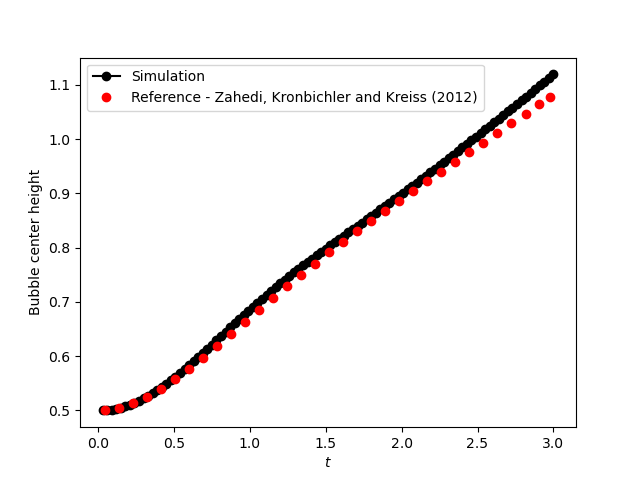
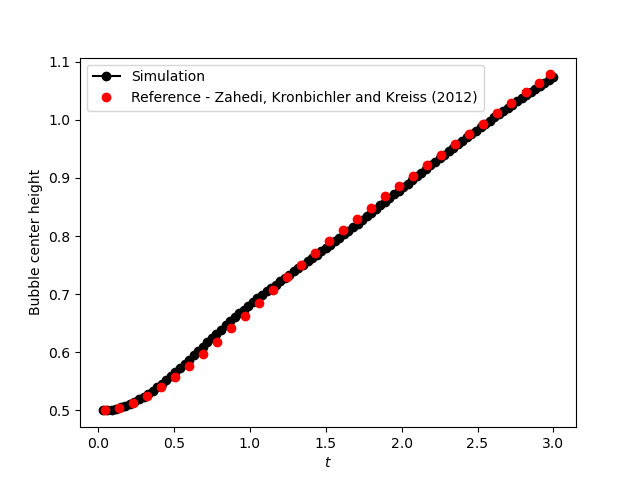
Add density ratio term to the surface tension force calculations

diff --git a/source/solvers/navier_stokes_vof_assemblers.cc b/source/solvers/navier_stokes_vof_assemblers.cc
@@ -544,7 +544,16 @@ GLSNavierStokesVOFAssemblerSTF<dim>::assemble_rhs(
   StabilizedMethodsTensorCopyData<dim> &copy_data)
 {
   // Surface tension coefficient
-  const double surface_tension_coef = STF_properties.surface_tension_coef;
+  const double surface_tension_coef = STF_parameters.surface_tension_coef;
+
+  // Densities of phases
+  Assert(
+    scratch_data.properties_manager.density_is_constant(),
+    RequiresConstantDensity(
+      "GLSVansAssemblerDiFelice<dim>::calculate_particle_fluid_interactions"));
+
+  const double phase_0_density = scratch_data.density_0[0];
+  const double phase_1_density = scratch_data.density_1[0];
 
   // Loop and quadrature informations
   const auto &       JxW        = scratch_data.JxW;
@@ -558,14 +567,19 @@ GLSNavierStokesVOFAssemblerSTF<dim>::assemble_rhs(
   // Loop over the quadrature points
   for (unsigned int q = 0; q < n_q_points; ++q)
     {
+      // Gather density
+      double density_eq = scratch_data.density[q];
+
       // Gather pfg and curvature values
       const double &        curvature_value = scratch_data.curvature_values[q];
       const Tensor<1, dim> &filtered_phase_fraction_gradient_value =
         scratch_data.filtered_phase_fraction_gradient_values[q];
-      const double         JxW_value = JxW[q];
-      const Tensor<1, dim> tmp_STF   = -2.0 * surface_tension_coef *
-                                     curvature_value *
-                                     filtered_phase_fraction_gradient_value;
+      const double JxW_value = JxW[q];
+
+      const Tensor<1, dim> tmp_STF =
+        -2.0 * surface_tension_coef * curvature_value *
+        filtered_phase_fraction_gradient_value *
+        (density_eq / (phase_0_density + phase_1_density));
 
       strong_residual[q] += tmp_STF;
 

diff --git a/include/solvers/navier_stokes_vof_assemblers.h b/include/solvers/navier_stokes_vof_assemblers.h
@@ -128,10 +128,10 @@ class GLSNavierStokesVOFAssemblerSTF : public NavierStokesAssemblerBase<dim>
 {
 public:
   GLSNavierStokesVOFAssemblerSTF(
-    std::shared_ptr<SimulationControl>  p_simulation_control,
-    Parameters::VOF_SurfaceTensionForce p_STF_properties)
+    std::shared_ptr<SimulationControl> p_simulation_control,
+    const SimulationParameters<dim> &  nsparam)
     : simulation_control(p_simulation_control)
-    , STF_properties(p_STF_properties)
+    , STF_parameters(nsparam.multiphysics.vof_parameters.surface_tension_force)
   {}
 
   /**
@@ -155,7 +155,7 @@ public:
   std::shared_ptr<SimulationControl> simulation_control;
 
   // Surface tension force (STF)
-  const Parameters::VOF_SurfaceTensionForce STF_properties;
+  const Parameters::VOF_SurfaceTensionForce STF_parameters;
 };
 
 

diff --git a/source/solvers/gls_navier_stokes.cc b/source/solvers/gls_navier_stokes.cc
@@ -428,9 +428,7 @@ GLSNavierStokesSolver<dim>::setup_assemblers()
             .surface_tension_force.enable)
         this->assemblers.push_back(
           std::make_shared<GLSNavierStokesVOFAssemblerSTF<dim>>(
-            this->simulation_control,
-            this->simulation_parameters.multiphysics.vof_parameters
-              .surface_tension_force));
+            this->simulation_control, this->simulation_parameters));
     }
   else
     {

diff --git a/examples/multiphysics/rising_bubble_VOF/rising_bubble.py b/examples/multiphysics/rising_bubble_VOF/rising_bubble.py
@@ -79,7 +79,7 @@ print(y_list)
 y_list.sort()
 
 #Smooth average y
-smoothed_y = savgol_filter(y_list, 39, 4)
+smoothed_y = savgol_filter(y_list, 41, 3)
 
 #Calculate bubble rise velocity
 t_diff_list = np.diff(time_list)

diff --git a/doc/source/examples/multiphysics/rising-bubble-VOF/rising-bubble-VOF.rst b/doc/source/examples/multiphysics/rising-bubble-VOF/rising-bubble-VOF.rst
@@ -111,9 +111,9 @@ Volume of Fluid (VOF)
 In Lethe, the surface tension force (:math:`{\bf{F_{\sigma}}}`) is calculated using the following equation [1, 2]:
 
     .. math::
-        {\bf{F_{\sigma}}} = 2 \sigma k {\bf{\psi}}
+        {\bf{F_{\sigma}}} = 2 \frac{\rho}{\rho_0 + \rho_1} \sigma k {\bf{\psi}}
 
-where :math:`\sigma`, :math:`k` and :math:`\bf{\psi}` denote surface tension coefficient, filtered curvature and filtered phase fraction gradient.
+where :math:`\sigma`, :math:`k` and :math:`\bf{\psi}` denote surface tension coefficient, filtered curvature and filtered phase fraction gradient. :math:`\rho`, :math:`\rho_1`, and :math:`\rho_2`are density of the flow, density of phase 0, and density of phase 1, respectively.
 
 The following equations calculate the filtered phase fraction gradient and filtered curvature, respectively.
 
